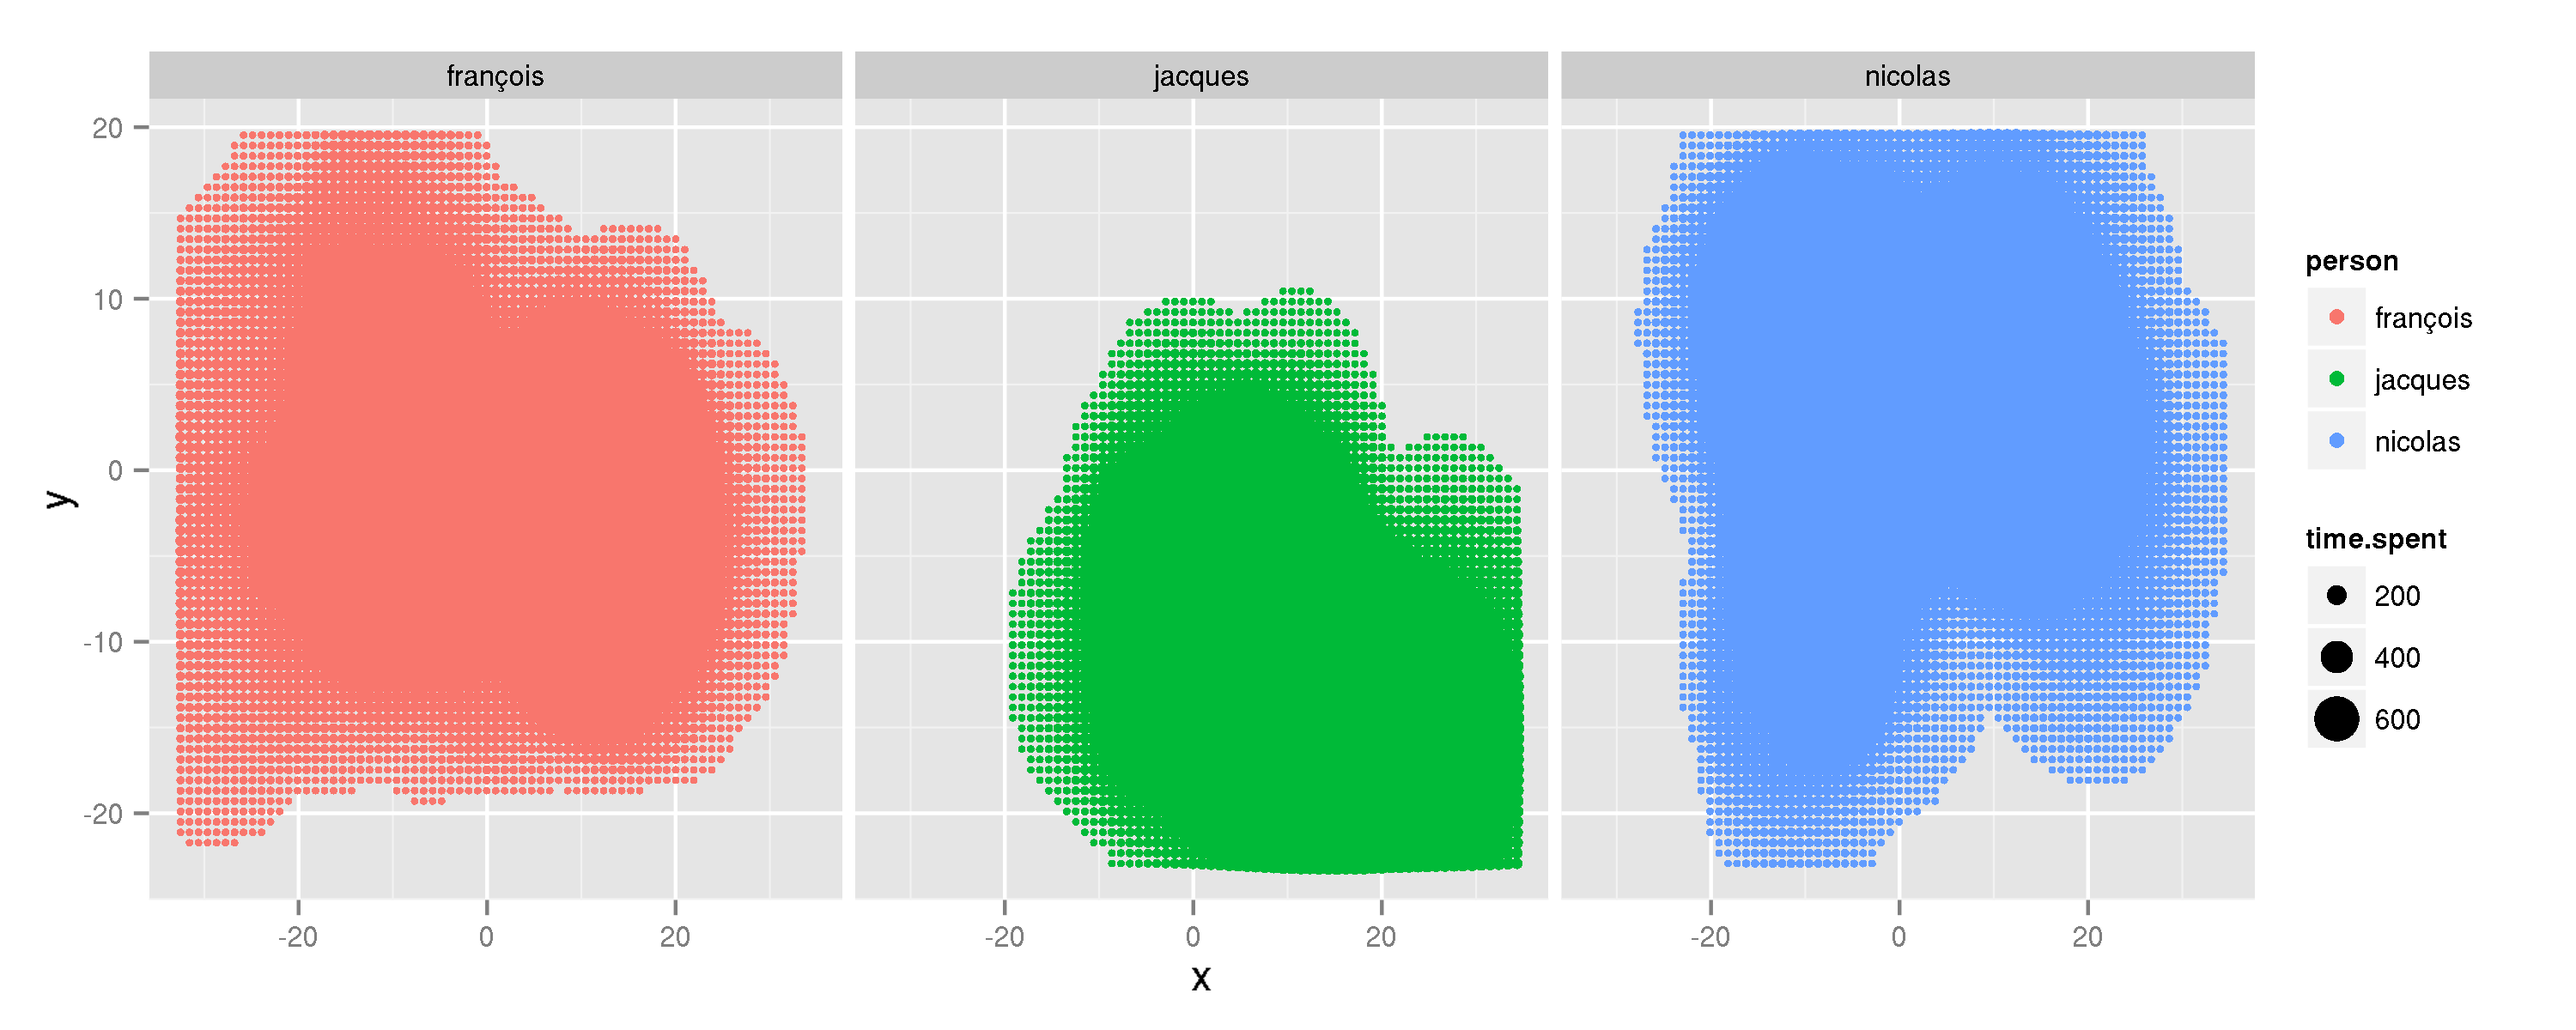
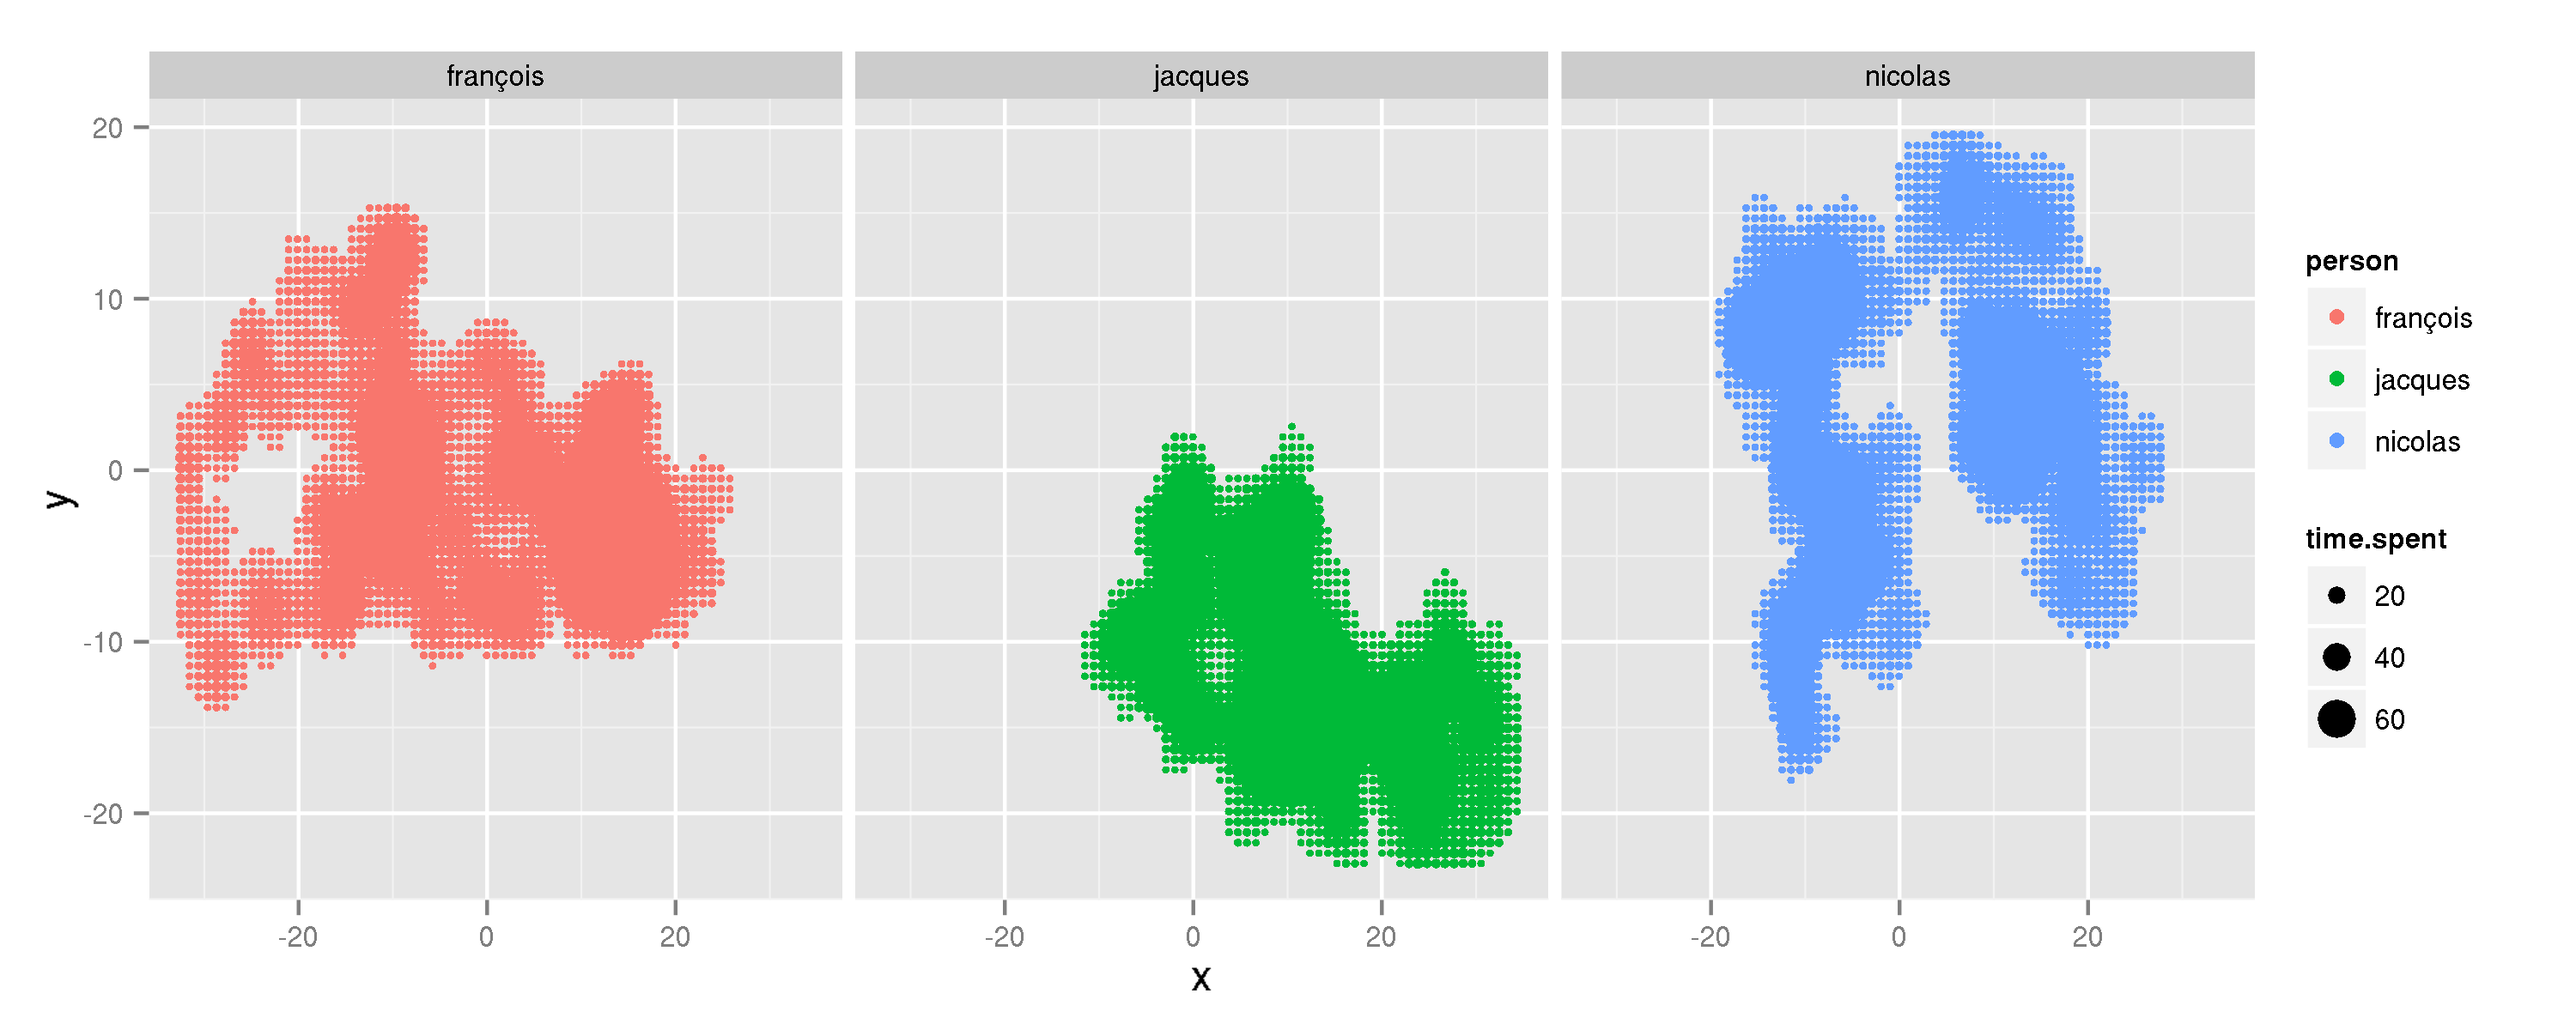
Better selection of parameters for examples.

diff --git a/README.md b/README.md
@@ -54,7 +54,7 @@ ggplot(dat,aes(x,y,color=person)) +
 ```r
 # Where did people spend their time ?
 fixed_mesh <- build_mesh(dat[ ,c('x','y')], 5000) # we fix the mesh across groups
-rollav <- rollply(dat, ~ x + y | person, wdw.size=10, mesh=fixed_mesh,
+rollav <- rollply(dat, ~ x + y | person, wdw.size=2, mesh=fixed_mesh,
                   summarise, time.spent=length(time))
 
 ggplot(subset(rollav, time.spent>0)) + 
